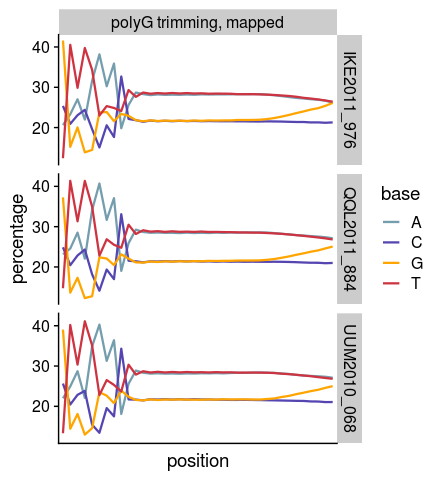
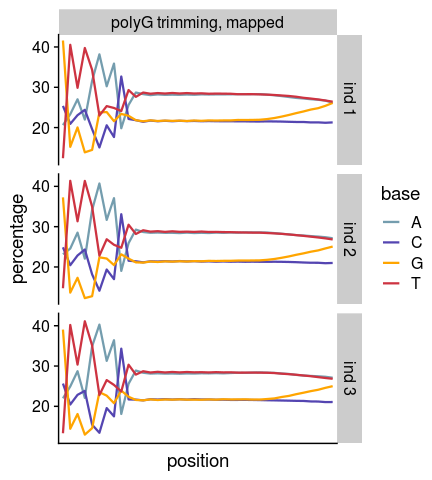
minor update

Changed region(s): [[0.7824, 0.6875, 0.8426, 0.9062], [0.7824, 0.0938, 0.8426, 0.3125], [0.7824, 0.375, 0.8426, 0.625]]

diff --git a/markdown/polyg.md b/markdown/polyg.md
@@ -91,10 +91,8 @@ seq_content_p <- per_base_seq_content_polyg_trimmed_final %>%
   mutate(position = as_factor(position)) %>%
   ggplot(aes(x=position, y=percentage, color=base, group=base)) +
   geom_line(size=0.8) +
-  #scale_color_viridis_d(end = 0.9) +
-  #scale_color_brewer(palette = "Dark2") +
   scale_color_manual(values = c("#749dae", "#5445b1", "orange", "#cd3341")) +
-  facet_grid(sample_id~type) +
+  facet_grid(str_c("ind ", as.numeric(as.factor(sample_id)))~type) +
   cowplot::theme_cowplot() +
   theme(axis.text.x = element_blank(),
         axis.ticks.x = element_blank())
@@ -266,7 +264,7 @@ seq_content_p <- per_base_seq_content_polyg_trimmed_final %>%
   ggplot(aes(x=position, y=percentage, color=base, group=base)) +
   geom_line(size=0.8) +
   scale_color_manual(values = c("#749dae", "#5445b1", "orange", "#cd3341")) +
-  facet_grid(sample_id~type) +
+  facet_grid(str_c("ind ", as.numeric(as.factor(sample_id)))~type) +
   cowplot::theme_cowplot() +
   theme(axis.text.x = element_blank(),
         axis.ticks.x = element_blank())
